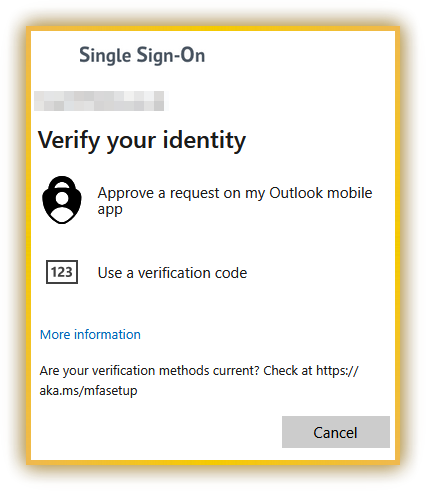
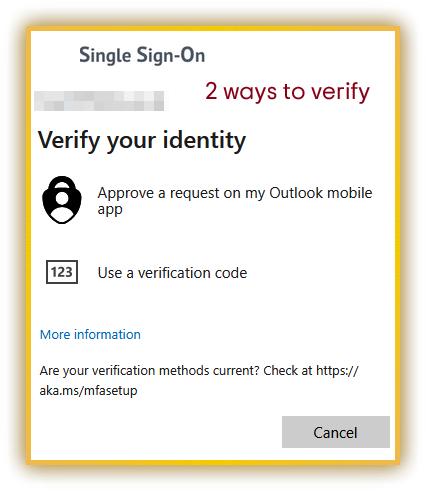
Release v0.1.5.1

Changed region(s): [[0.4883, 0.1527, 0.885, 0.2138]]

diff --git a/app.py b/app.py
@@ -23,13 +23,13 @@ from PIL import Image, ImageDraw, ImageTk
 from core import StandardAuthAccount
 from plugin_manager import PluginManager
 
-# --- Core Plugins (Always Enabled unless CLI flag is passed) ---
+# --- Core Plugins ---
 from plugins.qr_scanner import ScreenQRScannerPlugin
 from plugins.manual_entry import ManualEntryPlugin
 from plugins.tray_icon import TrayIconPlugin
 from plugins.tutorial import TutorialPlugin
 
-# --- Toggleable Plugins (Managed in Settings) ---
+# --- Toggleable Plugins ---
 from plugins.backup_export import BackupExportPlugin  
 from plugins.secure_storage import SecureStoragePlugin
 from plugins.broadcaster import LocalBroadcasterPlugin
@@ -37,12 +37,9 @@ from plugins.auto_login import AutoLoginPlugin
 from plugins.virtual_yubikey import VirtualYubiKeyPlugin
 from plugins.tailscale_sync import TailscaleSyncPlugin
 
-APP_VERSION = "v0.1.5.0"
+APP_VERSION = "v0.1.5.1"
 GITHUB_REPO = "cookietank/OpenAuth"
 
-# =========================================================================
-# SILENT COMMAND-LINE UNINSTALLER
-# =========================================================================
 if "--uninstall" in sys.argv:
     try:
         import keyring
@@ -110,7 +107,6 @@ with open(LOG_FILE, 'a', encoding='utf-8') as f:
 sys.stdout = SafeLogger(LOG_FILE, is_stdout=True)
 sys.stderr = SafeLogger(LOG_FILE, is_stdout=False)
 
-# Core plugins are permanently integrated into the app.
 CORE_PLUGINS = {
     "Tray Icon": TrayIconPlugin,
     "Screen QR Scanner": ScreenQRScannerPlugin,
@@ -118,7 +114,6 @@ CORE_PLUGINS = {
     "Tutorial": TutorialPlugin
 }
 
-# Toggleable plugins show up in the settings menu.
 TOGGLEABLE_PLUGINS = {
     "Backup & Export": BackupExportPlugin,
     "Copy Code to Clipboard": VirtualYubiKeyPlugin,
@@ -182,9 +177,8 @@ class DesktopAuthenticator:
             "show_tutorial": True,
             "auto_update": True,
             "start_on_boot": False,
-            "understood_tray": False,
-            "privacy_mode": True,
-            "theme": "Light",
+            "privacy_mode": False, # Changed default to False
+            "theme": "Automatic",  # Changed default to Automatic
             "plugins": {
                 "Backup & Export": True,
                 "Copy Code to Clipboard": True,
@@ -213,7 +207,8 @@ class DesktopAuthenticator:
         except Exception:
             pass
 
-        self.root.protocol("WM_DELETE_WINDOW", self.quit_app)
+        # Clicking the 'X' now sends the app to the Tray instead of quitting
+        self.root.protocol("WM_DELETE_WINDOW", self.send_to_tray)
         
         self.toolbar = tk.Frame(root, bd=1, relief=tk.RAISED, bg=self.colors['bg'])
         self.toolbar.pack(side=tk.TOP, fill=tk.X)
@@ -223,7 +218,7 @@ class DesktopAuthenticator:
         self.auth_menu_btn.configure(menu=self.auth_menu)
         self.auth_menu_btn.pack(side=tk.LEFT, padx=5, pady=2)
 
-        self.add_toolbar_action("Quit", self.quit_app, side=tk.RIGHT)
+        self.add_toolbar_action("Quit", self.quit_app_prompt, side=tk.RIGHT)
         self.add_toolbar_action("Settings", self.open_settings, side=tk.RIGHT)
         
         self.main_frame = tk.Frame(root, bg=self.colors['bg'])
@@ -250,13 +245,41 @@ class DesktopAuthenticator:
 
         threading.Thread(target=self.check_time_drift, daemon=True).start()
 
+    def get_windows_theme(self):
+        """Reads the Windows Registry to determine if OS is Light or Dark mode."""
+        try:
+            key = winreg.OpenKey(winreg.HKEY_CURRENT_USER, r"Software\Microsoft\Windows\CurrentVersion\Themes\Personalize")
+            val, _ = winreg.QueryValueEx(key, "AppsUseLightTheme")
+            return "Light" if val == 1 else "Dark"
+        except Exception:
+            return "Light" 
+
+    def send_to_tray(self):
+        """Called when the 'X' button is clicked."""
+        for p in self.plugin_manager.plugins:
+            if type(p).__name__ == "TrayIconPlugin":
+                p.minimize_to_tray()
+                return
+        self.force_quit_app()
+
+    def quit_app_prompt(self):
+        """Called from the Toolbar 'Quit' button with a safety warning."""
+        if messagebox.askyesno("Quit OpenAuth", "Are you sure you want to quit OpenAuth?\n\nYou will not be able to use Hotkeys or Auto-Login while the application is closed.", parent=self.root):
+            self.force_quit_app()
+
+    def force_quit_app(self):
+        """Instantly kills the app (Used by Tray Icon and internal shutdown hooks)."""
+        if self.update_job is not None:
+            self.root.after_cancel(self.update_job)
+        self.root.destroy()
+        os._exit(0)
+
     def get_resource_path(self, relative_path):
         if hasattr(sys, '_MEIPASS'):
             return os.path.join(sys._MEIPASS, relative_path)
         return os.path.join(os.path.abspath("."), relative_path)
 
     def show_toast(self, message, duration=2500):
-        """Creates a custom, non-blocking floating notification window."""
         toast = tk.Toplevel(self.root)
         toast.overrideredirect(True)
         toast.attributes('-topmost', True)
@@ -426,7 +449,14 @@ del "%~f0"
         return image
 
     def apply_theme_colors(self):
-        is_dark = self.config.get("theme", "Light") == "Dark"
+        theme_setting = self.config.get("theme", "Automatic")
+        if theme_setting == "Automatic":
+            theme_choice = self.get_windows_theme()
+        else:
+            theme_choice = theme_setting
+            
+        is_dark = theme_choice == "Dark"
+        
         self.colors = {
             "bg": "#1e1e1e" if is_dark else "SystemButtonFace",
             "fg": "#ffffff" if is_dark else "black",
@@ -490,9 +520,8 @@ del "%~f0"
                     self.config["show_tutorial"] = saved_config.get("show_tutorial", True)
                     self.config["auto_update"] = saved_config.get("auto_update", True)
                     self.config["start_on_boot"] = saved_config.get("start_on_boot", False)
-                    self.config["understood_tray"] = saved_config.get("understood_tray", False)
-                    self.config["privacy_mode"] = saved_config.get("privacy_mode", True)
-                    self.config["theme"] = saved_config.get("theme", "Light")
+                    self.config["privacy_mode"] = saved_config.get("privacy_mode", False)
+                    self.config["theme"] = saved_config.get("theme", "Automatic")
                     
                     self.config["plugins"].update(saved_config.get("plugins", {}))
                     self.config["hotkeys"].update(saved_config.get("hotkeys", {}))
@@ -626,20 +655,20 @@ del "%~f0"
         tut_var = tk.BooleanVar(value=self.config.get("show_tutorial", True))
         ttk.Checkbutton(general_frame, text="Show Tutorial on App Updates", variable=tut_var).pack(anchor="w", padx=10, pady=5)
 
-        privacy_var = tk.BooleanVar(value=self.config.get("privacy_mode", True))
+        privacy_var = tk.BooleanVar(value=self.config.get("privacy_mode", False))
         ttk.Checkbutton(general_frame, text="Privacy Mode (Hide codes until hovered)", variable=privacy_var).pack(anchor="w", padx=10, pady=5)
         
         tk.Label(general_frame, text="App Theme:", bg=self.colors['bg'], fg=self.colors['fg']).pack(anchor="w", padx=10, pady=(10, 0))
-        theme_var = tk.StringVar(value=self.config.get("theme", "Light"))
-        ttk.Combobox(general_frame, textvariable=theme_var, values=["Light", "Dark"], state="readonly").pack(fill=tk.X, padx=10, pady=5)
+        theme_var = tk.StringVar(value=self.config.get("theme", "Automatic"))
+        ttk.Combobox(general_frame, textvariable=theme_var, values=["Automatic", "Light", "Dark"], state="readonly").pack(fill=tk.X, padx=10, pady=5)
         
         tk.Label(general_frame, text=f"OpenAuth Version: {APP_VERSION}", bg=self.colors['bg'], fg=self.colors['handle']).pack(anchor="w", padx=10, pady=(30, 0))
         
         ttk.Button(general_frame, text="Report an Issue / Bug", command=self.report_issue).pack(anchor="w", padx=10, pady=(5, 0))
 
-        # TAB 2: Automation & Hotkeys
+        # TAB 2: Plugins & Hotkeys
         plugin_frame = ttk.Frame(notebook)
-        notebook.add(plugin_frame, text="Automation & Hotkeys")
+        notebook.add(plugin_frame, text="Plugins & Hotkeys")
         
         tk.Label(plugin_frame, text="Optional Modules", font=("Helvetica", 9, "bold"), bg=self.colors['bg'], fg=self.colors['fg']).pack(anchor="w", padx=10, pady=(10, 2))
 
@@ -680,7 +709,6 @@ del "%~f0"
 
         tk.Label(adv_frame, text="Account Backup", font=("Helvetica", 9, "bold"), bg=self.colors['bg'], fg=self.colors['fg']).pack(anchor="w", padx=10, pady=(10, 2))
         
-        # Backup & Export is now treated as a toggleable plugin here
         backup_var = tk.BooleanVar(value=self.config["plugins"].get("Backup & Export", True))
         plugin_vars["Backup & Export"] = backup_var
         chk_backup = ttk.Checkbutton(adv_frame, text="Enable Backup & Export", variable=backup_var)
@@ -791,13 +819,11 @@ del "%~f0"
         os._exit(0)
 
     def load_plugins(self):
-        # Load CORE plugins without config checking (unless CLI overrides)
         for name, plugin_class in CORE_PLUGINS.items():
             cli_flag = f"--disable-{name.lower().replace(' ', '-')}"
             if cli_flag not in sys.argv:
                 self.plugin_manager.register_plugin(plugin_class)
                 
-        # Load TOGGLEABLE plugins based on JSON config
         for name, plugin_class in TOGGLEABLE_PLUGINS.items():
             if self.config["plugins"].get(name, False):
                 self.plugin_manager.register_plugin(plugin_class)
@@ -868,7 +894,7 @@ del "%~f0"
         for widget in self.main_frame.winfo_children():
             widget.destroy()
 
-        privacy_on = self.config.get("privacy_mode", True)
+        privacy_on = self.config.get("privacy_mode", False)
 
         for idx, acc in enumerate(self.accounts):
             bg_color = self.colors['highlight'] if idx == 0 else self.colors['frame_bg']
@@ -948,7 +974,7 @@ del "%~f0"
         if self.accounts:
             time_remaining = self.accounts[0].get_time_remaining()
             self.root.title(f"OpenAuth ({time_remaining}s)")
-            privacy_on = self.config.get("privacy_mode", True)
+            privacy_on = self.config.get("privacy_mode", False)
             
             code_changed = False
             for acc in self.accounts:

diff --git a/plugins/tutorial.py b/plugins/tutorial.py
@@ -10,7 +10,6 @@ class TutorialPlugin(PluginBase):
         pass
 
     def open_tutorial(self):
-        """Event hook called by app.py when a user clicks Help/Tutorial."""
         self.start_interactive_tutorial()
 
     def start_interactive_tutorial(self):
@@ -63,6 +62,7 @@ class TutorialPlugin(PluginBase):
                 
                 def resize_image(event, canvas=img_canvas, img=orig_img):
                     canvas.delete("all")
+                    if event.width <= 1 or event.height <= 1: return
                     ratio = min(event.width / img.width, event.height / img.height)
                     if ratio > 1: ratio = 1 
                     
@@ -80,6 +80,49 @@ class TutorialPlugin(PluginBase):
                 print(f"Error drawing image: {e}")
         else:
             tk.Label(self.tut_content_frame, text=f"[ Missing Image: {img_name} ]", bg=self.app.colors['bg'], fg="red").pack(pady=10)
+
+    def _add_tut_imgs_side_by_side(self, img_names):
+        """Renders multiple images side-by-side responsively."""
+        frame = tk.Frame(self.tut_content_frame, bg=self.app.colors['bg'])
+        frame.pack(fill=tk.BOTH, expand=True, pady=10)
+
+        for img_name in img_names:
+            img_path = self.app.get_resource_path(os.path.join('plugins', img_name))
+            if os.path.exists(img_path):
+                try:
+                    orig_img = Image.open(img_path)
+                    new_size = (orig_img.width * 2, orig_img.height * 2)
+                    orig_img = orig_img.resize(new_size, Image.Resampling.LANCZOS)
+
+                    img_canvas = tk.Canvas(frame, bg=self.app.colors['bg'], highlightthickness=1, highlightbackground="gray")
+                    img_canvas.pack(side=tk.LEFT, fill=tk.BOTH, expand=True, padx=5)
+
+                    self.tut_images.append(orig_img)
+
+                    # CRITICAL FIX: Isolated Closure for each individual Canvas
+                    def make_resize_handler(c, i):
+                        def handler(event):
+                            c.delete("all")
+                            if event.width <= 1 or event.height <= 1: return
+                            ratio = min(event.width / i.width, event.height / i.height)
+                            if ratio > 1: ratio = 1
+
+                            new_w = max(1, int(i.width * ratio))
+                            new_h = max(1, int(i.height * ratio))
+
+                            resized = i.resize((new_w, new_h), Image.Resampling.LANCZOS)
+                            photo = ImageTk.PhotoImage(resized)
+
+                            c.image = photo
+                            c.create_image(event.width//2, event.height//2, anchor=tk.CENTER, image=photo)
+                        return handler
+
+                    img_canvas.bind("<Configure>", make_resize_handler(img_canvas, orig_img))
+
+                except Exception as e:
+                    print(f"Error drawing image: {e}")
+            else:
+                tk.Label(frame, text=f"[ Missing: {img_name} ]", bg=self.app.colors['bg'], fg="red").pack(side=tk.LEFT, padx=5, expand=True)
 
     def render_tut_step(self):
         for widget in self.tut_content_frame.winfo_children():
@@ -145,7 +188,8 @@ class TutorialPlugin(PluginBase):
         elif self.tut_step == 6:
             tk.Label(self.tut_content_frame, text="Configuration: Auto-Login", font=("Helvetica", 16, "bold"), bg=bg, fg=fg).pack(pady=10)
             tk.Label(self.tut_content_frame, text="Login as normal and manually click 'I can't use my Outlook mobile app right now'. You will reach the 'Verify your identity' screen shown below.", justify=tk.LEFT, bg=bg, fg=fg, wraplength=450).pack(pady=5)
-            self._add_tut_img('tut_waystoverify.png')
+            
+            self._add_tut_imgs_side_by_side(['tut_waystoverify.png', 'tut_waystoverify_3.png'])
             
             tk.Label(self.tut_content_frame, text="How many options appear on this screen for you? (App, Text, Call, etc)", bg=bg, fg=fg).pack(anchor="w", pady=(10,0))
             self.ways_tut_var = tk.StringVar(value=str(self.app.config["hotkeys"].get("auto_login_ways", 2)))
@@ -157,7 +201,7 @@ class TutorialPlugin(PluginBase):
 
         elif self.tut_step == 7:
             tk.Label(self.tut_content_frame, text="Ready to Go!", font=("Helvetica", 16, "bold"), bg=bg, fg=fg).pack(pady=10)
-            tk.Label(self.tut_content_frame, text="OpenAuth is designed to run silently in the background.\n\nWhen you close the window, it hides in your System Tray. Double-click the tray icon to open it, or Right-Click it to instantly copy your code.", justify=tk.LEFT, bg=bg, fg=fg, wraplength=450).pack(pady=10)
+            tk.Label(self.tut_content_frame, text="OpenAuth is designed to run silently in the background.\n\nWhen you close the window using the 'X', it will hide in your System Tray. Double-click the tray icon to open it, or Right-Click it to instantly copy your code.", justify=tk.LEFT, bg=bg, fg=fg, wraplength=450).pack(pady=10)
             
             self.boot_tut_var = tk.BooleanVar(value=self.app.config.get("start_on_boot", False))
             ttk.Checkbutton(self.tut_content_frame, text="Start OpenAuth silently with Windows", variable=self.boot_tut_var, command=self._tut_save_settings).pack(pady=10, anchor="w")

diff --git a/plugins/tray_icon.py b/plugins/tray_icon.py
@@ -1,5 +1,4 @@
 import tkinter as tk
-from tkinter import ttk
 import threading
 import sys
 import pystray
@@ -7,49 +6,15 @@ from plugin_manager import PluginBase
 
 class TrayIconPlugin(PluginBase):
     def setup(self):
-        self.to_tray_btn = None
+        # Permanently add the To Tray button (no more popup)
+        self.app.add_toolbar_action("To Tray", self.minimize_to_tray, side=tk.RIGHT)
         
-        if not self.app.config.get("understood_tray", False):
-            self.to_tray_btn = self.app.add_toolbar_action("To Tray", self.tray_tutorial_click, side=tk.RIGHT)
-        
-        self.app.root.bind("<Unmap>", self.on_unmap)
-        
+        # If booted silently, go straight to tray
         if "--tray" in sys.argv:
             self.app.root.after(100, self.minimize_to_tray)
 
-    def tray_tutorial_click(self):
-        tut = tk.Toplevel(self.app.root)
-        tut.title("System Tray")
-        tut.geometry("380x250")
-        tut.attributes("-topmost", True)
-        tut.configure(bg=self.app.colors['bg'])
-        
-        tk.Label(tut, text="ℹ Hiding in the Tray", font=("Helvetica", 12, "bold"), bg=self.app.colors['bg'], fg=self.app.colors['fg']).pack(pady=15)
-        
-        msg = "OpenAuth is designed to run silently in the background.\n\nIt minimizes to your Windows System Tray (the small icons near your clock in the bottom right of your screen).\n\nPro Tip: The standard Windows Minimize (-) button does the exact same thing!"
-        tk.Message(tut, text=msg, bg=self.app.colors['bg'], fg=self.app.colors['fg'], width=340, justify=tk.LEFT).pack(padx=20, pady=5)
-        
-        understand_var = tk.BooleanVar(value=True)
-        chk = ttk.Checkbutton(tut, text="I understand, remove this 'To Tray' button", variable=understand_var)
-        chk.pack(pady=10)
-        
-        def proceed():
-            if understand_var.get():
-                self.app.config["understood_tray"] = True
-                self.app.save_config()
-                if self.to_tray_btn:
-                    self.to_tray_btn.pack_forget()
-                    self.to_tray_btn.destroy()
-            tut.destroy()
-            self.minimize_to_tray()
-
-        ttk.Button(tut, text="Got it!", command=proceed).pack(pady=10)
-
-    def on_unmap(self, event):
-        if event.widget == self.app.root and self.app.root.state() == 'iconic':
-            self.minimize_to_tray()
-
     def minimize_to_tray(self, event=None):
+        """Hides the app to the System Tray."""
         for widget in self.app.root.winfo_children():
             if isinstance(widget, tk.Toplevel):
                 widget.destroy()
@@ -84,10 +49,10 @@ class TrayIconPlugin(PluginBase):
 
     def restore_from_tray(self, icon, item):
         self.icon.stop() 
-        # SNAP TO FIT: Resize the window mathematically before restoring it!
         self.app.root.after(0, self.app.resize_main_window)
         self.app.root.after(0, self.app.root.deiconify) 
 
     def quit_from_tray(self, icon, item):
         self.icon.stop()
-        self.app.root.after(0, self.app.quit_app)
+        # Force quit directly without the confirmation popup, since tray quits are explicit
+        self.app.root.after(0, self.app.force_quit_app)
